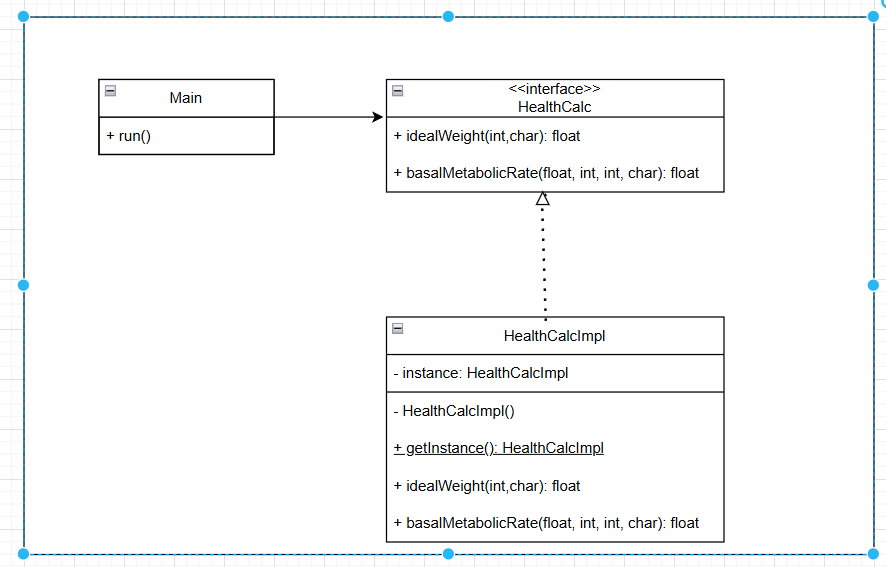
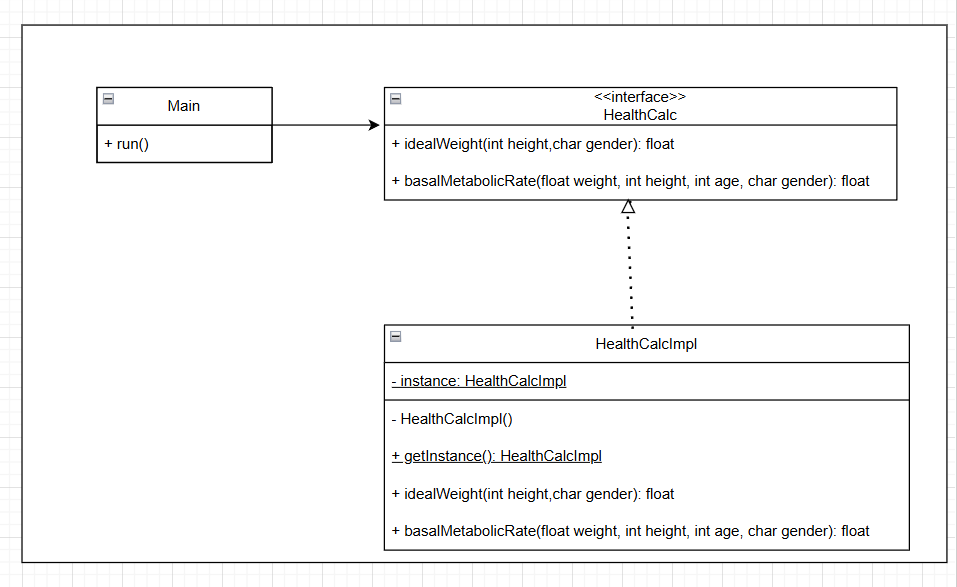
fix: commit to fix UML_singleton

Changed region(s): [[0.0, 0.0, 1.0, 0.9894], [0.0914, 0.1199, 0.9447, 0.3898]]

diff --git a/projectHealthcalc/src/main/java/healthcalc/MainCalc.java b/projectHealthcalc/src/main/java/healthcalc/MainCalc.java
@@ -1,29 +1,13 @@
-package calc;
+package healthcalc;
   
 import healthcalc.*; 
 
-import java.awt.EventQueue;
-import calc.ControllerCalc;
 
 public class MainCalc {
 
 
 public static void main(String[] args) {
-	EventQueue.invokeLater(new Runnable() {
-		public void run() {
-			try {
-				HealthCalc model = HealthCalcImpl.getInstance();
-		        VistaCalc view = new VistaCalc();
-		        ControllerCalc controller = new ControllerCalc(model, view);
-		        
-		        
-		        view.registerController(controller);
-		        
-				
-			} catch (Exception e) {
-				e.printStackTrace();
-			}
-		}
-	});
+	HealthCalc model = HealthCalcImpl.getInstance();
+	}
 }
-}
+

diff --git a/projectHealthcalc/src/main/java/calc/ControllerCalc.java b/projectHealthcalc/src/main/java/calc/ControllerCalc.java
@@ -8,11 +8,11 @@ import healthcalc.HealthCalcImpl;
 
 public class ControllerCalc implements ActionListener {
 
-    private HealthCalcImpl model;  
+    private HealthCalc model;  
     private VistaCalc view;
 
     
-    public ControllerCalc(HealthCalcImpl model, VistaCalc view) {
+    public ControllerCalc(HealthCalc model, VistaCalc view) {
         this.model = model; 
         this.view = view;
     }

diff --git a/projectHealthcalc/src/main/java/healthcalc/HealthCalcImpl.java b/projectHealthcalc/src/main/java/healthcalc/HealthCalcImpl.java
@@ -6,7 +6,7 @@ public class HealthCalcImpl implements HealthCalc {
     private static HealthCalcImpl instance;
 
     
-    private HealthCalcImpl() {
+    HealthCalcImpl() {
         
     }
 
